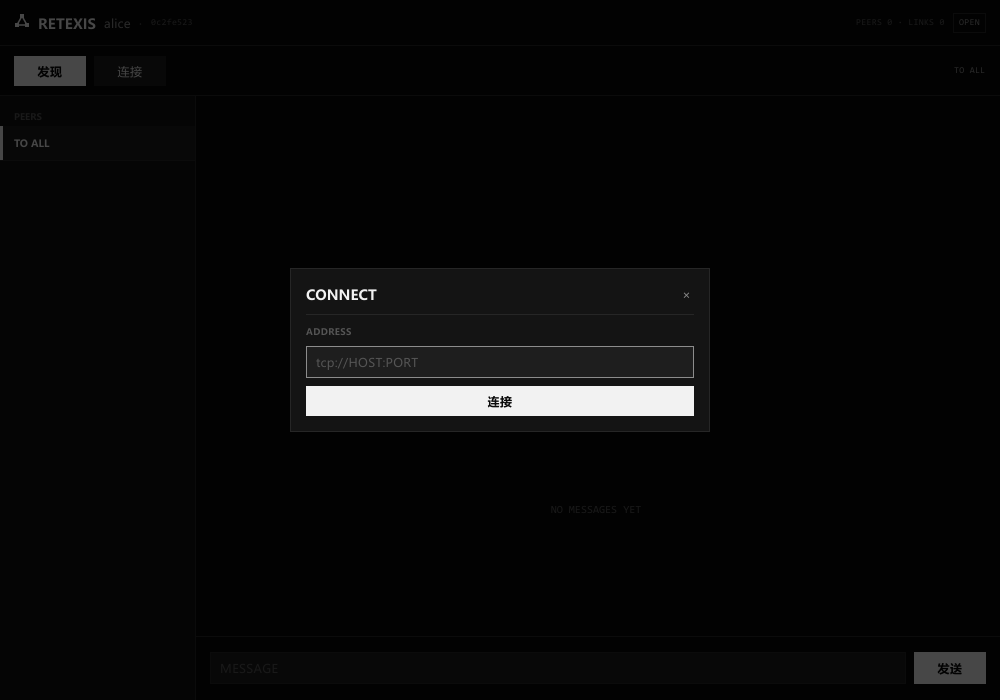
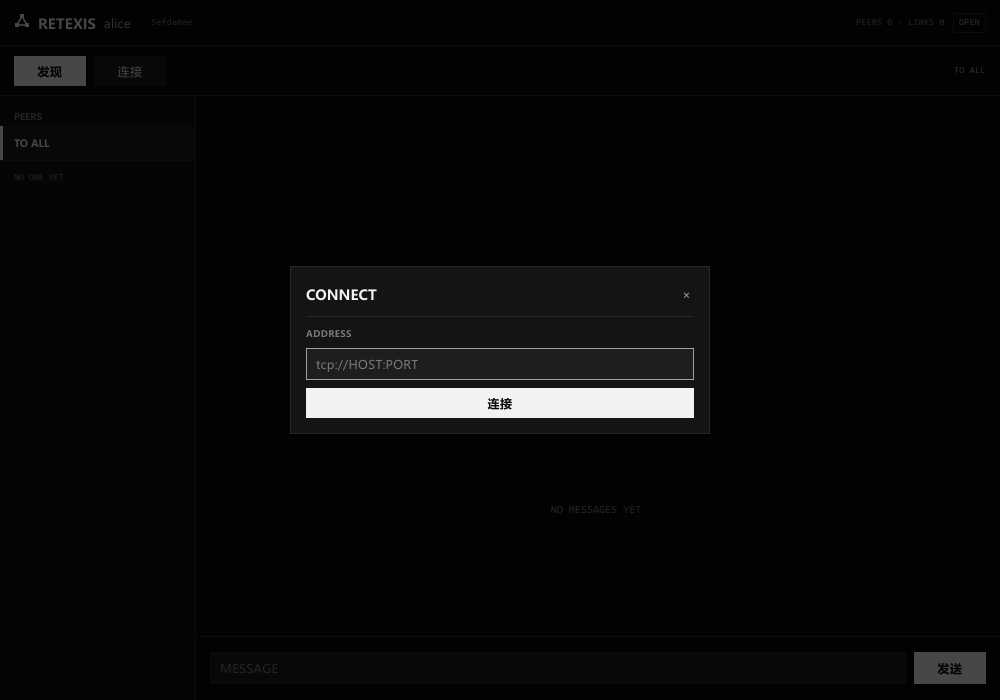
fix(ui): make the window usable when it is actually full
A usability pass over the states nobody looks at: fourteen peers at once,
names too long to fit, the window at its 720x480 minimum and at 1600x1000.
None of what it found was a logic bug; all of it was geometry and colour.

- The peer list scrolled nowhere and, worse, grew the layout. A vertical
  layout's minimum height is the sum of its items, so fourteen 42px rows
  made the body taller than the window and pushed the composer below the
  bottom edge: there was no input box at all. The rows now live in a
  ScrollView inside a `min-height: 0` box that only takes what is left;
  "TO ALL" stays outside it so it is always reachable, and the sidebar
  clips.

- `faint` was #555: 2.7:1 on #0a0a0a, under every threshold there is, and
  it coloured nothing but 9px type. Now #7a7a7a (4.6:1), with `dim` raised
  to #a0a0a0 (7.6:1) so the two greys still read as two steps.

- The scrollbar was 3px wide, i.e. a 3px hit target, and its resting
  colour was invisible. The strip is 12px wide with the same 3px bar drawn
  at its right edge, and the bar rests at #3f3f3f.

- Peer names, `--name`, the addressee and the error line are user input;
  all of them elide now (with a cap in the header) instead of widening
  their row, and a failed dial can no longer run off the window.

- The empty sidebar says "NO ONE YET"; the dialog's x is 24x24.

Pinned by a test: clicking 发送 leaves the caret in the box, because a
click on a TouchArea does not move focus in Slint — and the cheap way to
[…]

Changed region(s): [[0.31, 0.45, 0.682, 0.6]]

diff --git a/crates/retexis-gui/tests/ui.rs b/crates/retexis-gui/tests/ui.rs
@@ -377,6 +377,44 @@ fn the_send_button_on_an_empty_composer_sends_nothing() {
     assert_eq!(sent.get(), 0);
 }
 
+/// Clicking 发送 is not the end of the conversation.
+///
+/// A click on a `TouchArea` does not move focus in Slint, so the caret is still
+/// in the box after the button is pressed — the next message can be typed
+/// straight away. Worth pinning because the cheap way to make buttons
+/// keyboard-accessible is to focus them on click, and that would quietly break
+/// this: the second message would go to a button instead of the box.
+#[test]
+fn a_click_on_send_leaves_the_caret_in_the_box() {
+    let ui = window();
+    let sent = Rc::new(Cell::new(0));
+    {
+        let sent = Rc::clone(&sent);
+        let weak = ui.as_weak();
+        ui.on_send(move |_| {
+            sent.set(sent.get() + 1);
+            // What the bridge does when the node accepted the message.
+            if let Some(ui) = weak.upgrade() {
+                ui.set_draft("".into());
+            }
+        });
+    }
+
+    type_text(&ui, "hi");
+    let size = ui.window().size();
+    click(
+        &ui,
+        size.width as f32 - 14.0 - 36.0,
+        size.height as f32 - 14.0 - 16.0,
+    );
+    assert_eq!(sent.get(), 1);
+    assert_eq!(ui.get_draft(), "", "the box empties on send");
+
+    // The proof is the next keystroke.
+    type_text(&ui, "yo");
+    assert_eq!(ui.get_draft(), "yo", "the next message starts in the box");
+}
+
 #[test]
 fn double_clicking_connect_opens_then_closes_and_leaves_the_window_usable() {
     let ui = window();

diff --git a/README.md b/README.md
@@ -526,7 +526,7 @@ cargo run -p retexis-gui -- --connect tcp://10.0.0.7:7100 --psk "our secret"
 
 ### 这个窗口是测出来的，不是看出来的
 
-`tests/ui.rs` 里 18 个测试跑在 Slint 的 headless 后端上：真布局、固定字体度量、真的
+`tests/ui.rs` 里 19 个测试跑在 Slint 的 headless 后端上：真布局、固定字体度量、真的
 `WindowEvent`。所以"Esc 关掉对话框"是**在已知坐标按一下 Esc** 得到的答案，不是读 `.slint`
 文件猜焦点链：
 
@@ -538,10 +538,31 @@ cargo run -p retexis-gui -- --connect tcp://10.0.0.7:7100 --psk "our secret"
 - 空输入框按 Enter / 点「发送」什么都不发（否则界面会弹出一行"empty message"的错误）
 - 双击「连接」= 开一次、关一次，因为第二下已经落在遮罩上了；之后照样能打字
 - 点标题栏或空白处，光标回到输入框（否则窗口看着有焦点，却吞掉每一个按键）
+- 点「发送」之后光标还在输入框里，第二条消息可以直接打（Slint 里点 `TouchArea` 不抢焦点；
+  这条写成测试是因为"让按钮支持键盘"最省事的做法就是点一下就 focus，那会悄悄破坏它）
 
 `tests/two_nodes.rs` 管另一半：两个真节点、一条真 TCP，一个窗口里打的字出现在另一个的时间线上。
 另外三条是"人真的会这么干"的演练：刚拨号、还没收敛就发消息（不能卡死，之后必须还能发）、
 `--say` + `--connect` 启动参数、以及拨自己的地址（必须给出人能看懂的理由）。
+
+### 十四个人上线之后：一次可用性检查
+
+窗口里只有一个人、两条消息的时候，看起来都对。按最坏的情况摆一遍——十四个节点同时连上、
+名字长到放不下、窗口拉到最小 720×480 再拉到 1600×1000——出来的问题都不是逻辑错，是**几何和
+颜色**：
+
+| 现象 | 原因 | 修法 |
+|---|---|---|
+| 十四个节点连上后，输入框整个不见了 | 垂直布局的最小高度是子项之和：十四个 42px 的行把 body 撑高，输入框被顶出窗口 | 节点列表进 `ScrollView`，装它的盒子 `min-height: 0`，侧栏 `clip: true`；「TO ALL」留在列表外，永远点得到 |
+| 「PEERS」「direct」「9s」这些 9px 小字几乎看不见 | `faint` 是 #555，在 #0a0a0a 上只有 2.7:1 | 实测改到 4.6:1（`dim` 7.6:1），两级灰阶都还在 |
+| 滚动条抓不住 | 3px 宽就是 3px 的命中区 | 命中区 12px、视觉仍是 3px；静止色 #262626 → #3f3f3f，否则等于没有滚动条 |
+| 长名字把侧栏和头部撑变形 | `Text` 的默认宽度就是文字宽度，布局只能让它溢出 | 名字、地址、错误行都 `overflow: elide`，头部再加 `max-width` |
+| 空侧栏没有任何提示 | 没有空状态 | 「NO ONE YET」 |
+| 对话框的 × 只有 20px 高 | —— | 24×24 |
+
+还差一条**没修**的：节点行只有 `TouchArea`，键盘到不了。纯键盘用户能发广播（开窗就有焦点）、
+能用 Tab 走到「发现」「连接」并回车，但选不了收件人。要做就得给每行加 `FocusScope` 和焦点框，
+那是个有设计成本的决定，不该顺手塞进一次可用性检查里。
 
 ### 做这个窗口时踩到的坑
 
@@ -702,7 +723,7 @@ UI 能做的每件事都是一次 API 调用：
 ## 测试
 
 ```bash
-cargo test --workspace                   # 219 个测试
+cargo test --workspace                   # 220 个测试
 cargo clippy --workspace --all-targets
 ```
 
